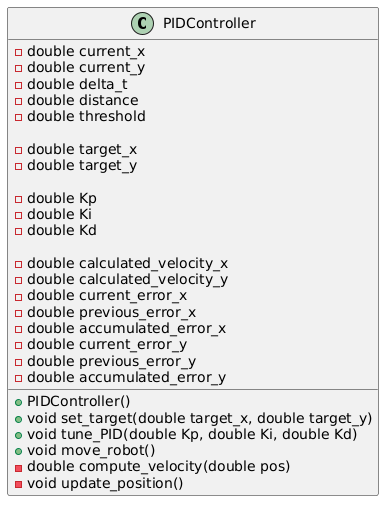
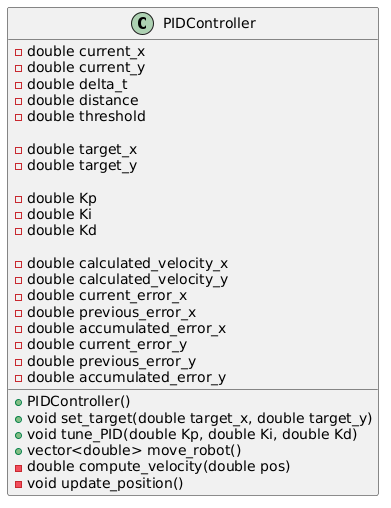
Task#0 Fixed design issues
In this commit we have modified the design doc and the UML diagram
so that the move_robot() function now has to return the final x
and y coordinates of the robot

Changed region(s): [[0.0921, 0.8563, 0.6138, 0.9154]]

diff --git a/README.md b/README.md
@@ -96,7 +96,7 @@ void update_position();
 Moves the robot towards the target by calling `compute_velocity()` for both x and y directions, and then updating the position with `update_position()`.
 
 ```cpp
-void move_robot();
+vector<double> move_robot();
 ```
 
 ## Usage
@@ -104,7 +104,7 @@ void move_robot();
 1. Create an instance of `PIDController`.
 2. Set the target using `set_target()`.
 3. Tune the PID gains using `tune_PID()`.
-4. Call `move_robot()` in a loop to compute the velocities and move the robot incrementally towards the target.
+4. Call `move_robot()` in a compute the velocities and move the robot incrementally towards the target. The function returns the final coordinates of the robot as a vector
 
 ## Example
 
@@ -115,11 +115,9 @@ int main() {
     controller.set_target(10.0, 15.0);
     controller.tune_PID(1.0, 0.1, 0.05);
 
-    while (controller.distance > controller.threshold) {
-        controller.move_robot();
-    }
-
-    std::cout << "Robot reached the target!" << std::endl;
+    std::vector<double> robot_state;
+    robot_state = controller.move_robot();
+    std::cout << "Robot reached the target!" << robot_state[0] <<" "<<robot_state[1];
     
     return 0;
 }
